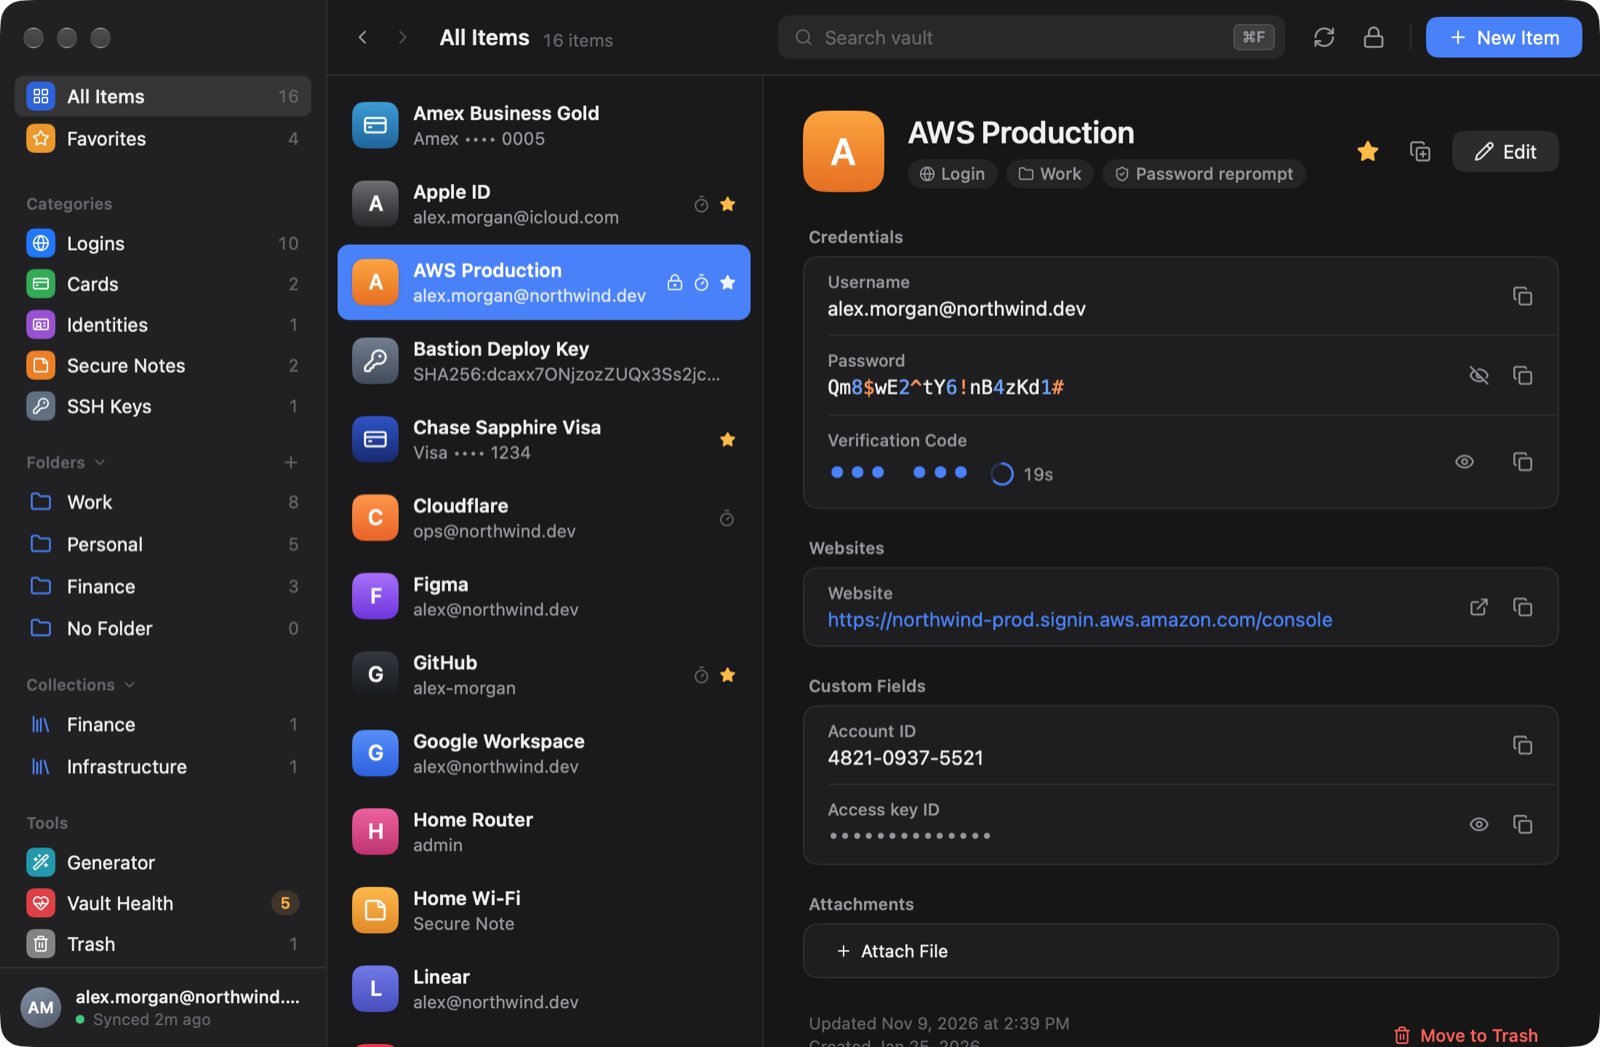
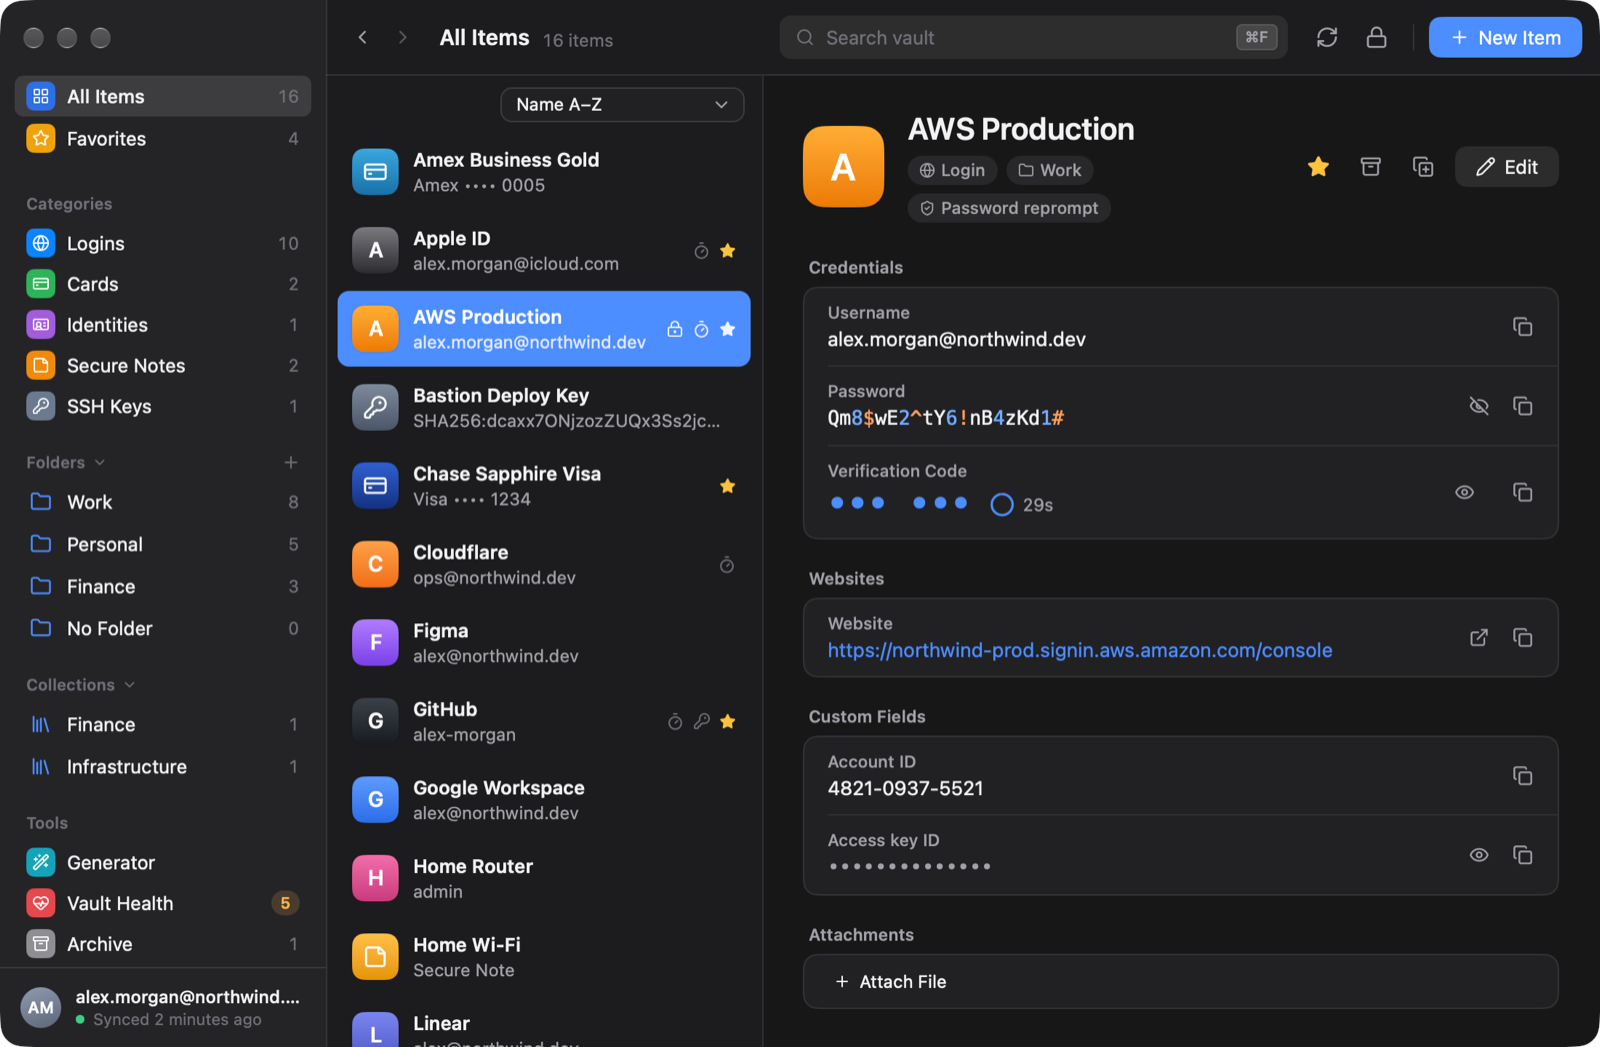
docs(readme): describe 0.6.1 features, sizes and screenshots
The appearance setting, bulk actions, sorting, the passkey indicator, wider search, YubiKey two-step login, new-device verification and the server choice at sign-in. The comparison table takes 0.6.1's download and app sizes and keeps the 0.2.5 process, memory and CPU measurements, saying so. The main screenshots show the current UI.

diff --git a/README.md b/README.md
@@ -25,7 +25,7 @@
   </picture>
 </p>
 
-<p align="center"><sub>Follows the system appearance: <a href="docs/screenshots/vault-light.png">light</a> and <a href="docs/screenshots/vault-dark.png">dark</a>.</sub></p>
+<p align="center"><sub>Light, Dark or System appearance, chosen in Settings: <a href="docs/screenshots/vault-light.png">light</a> and <a href="docs/screenshots/vault-dark.png">dark</a>.</sub></p>
 
 ## Install
 
@@ -110,7 +110,7 @@ gv lock
 | `install-linux.sh`, AppImage | Automatic: `~/.local/bin/gv` (`/usr/local/bin/gv` with `--system`), which keeps working without FUSE or a display and follows GoVault's updates | `install-linux.sh --uninstall` |
 | `.deb` or pacman package | Automatic: `/usr/bin/gv` | Removing the package removes it |
 | macOS app | **Settings → Command Line → Install** links `/usr/local/bin/gv` to the app (asks for an administrator password once) and updates with the app. It is offered for the signed GoVault in `/Applications` | **Settings → Command Line → Uninstall** |
-| Homebrew | Automatic with the cask, from the first release whose app carries `gv` | `brew uninstall --cask govault` |
+| Homebrew | Automatic with the cask | `brew uninstall --cask govault` |
 
 It supports `login` (master password with authenticator, email or YubiKey two-step login, or a personal API key), `unlock`, `lock`, `logout`, `status`, `sync`, `config server`, `list`, `get` (items, fields, TOTP codes, attachments, folders, collections, organizations, fingerprints), `create`, `edit`, `delete`, `restore` and `archive` (items, folders, attachments, item collections), `import` and `export` (Bitwarden JSON and CSV, encrypted with the account key or a password, and ZIP with attachments), `generate`, `encode` and `completion`. It does not yet move items to organizations, administer organizations, or use Send. `gv` keeps its own sign-in, separate from the app's, under `GoVault CLI` in your configuration directory (or `$BITWARDENCLI_APPDATA_DIR`), and keeps its credentials in the system keychain when there is one. See [docs/cli-design.md](docs/cli-design.md) for details and the few differences from `bw`.
 
@@ -118,17 +118,17 @@ It supports `login` (master password with authenticator, email or YubiKey two-st
 
 Bitwarden's mobile apps are native, but its desktop app is an Electron and Angular application: it ships a Chromium browser engine and Node.js, runs several processes, and is large to download and keep in memory. GoVault is a desktop client written in Go on native platform views (AppKit on macOS, GTK 4 on Linux, Win32 with Direct2D on Windows), with no CGO and a single process.
 
-| | GoVault 0.2.5 | Bitwarden Desktop 2026.10.4 |
+| | GoVault | Bitwarden Desktop 2026.10.4 |
 |---|---|---|
 | UI stack | Native views via [NSGo](https://nsgo.dev), Go, zero CGO | Electron (Chromium + Node.js) and Angular |
-| macOS download | 6.6 MB DMG (Apple silicon) | 350.7 MB DMG (universal) |
-| macOS app on disk | 21.5 MB | 1,033 MB (universal: x86_64 + arm64) |
-| Linux download (x86_64) | 7.0 MB `.deb`, 8.0 MB AppImage | 163.7 MB `.deb`, 215.8 MB AppImage |
-| Processes while idle | 1 | 4 (main, GPU, network, renderer) |
-| Memory, idle with the vault unlocked | 64 MB | 464 MB in total |
-| CPU, idle with the vault unlocked | under 0.1% | about 3% in total |
+| macOS download | 10.7 MB DMG (0.6.1, Apple silicon) | 350.7 MB DMG (universal) |
+| macOS app on disk | 37.1 MB (0.6.1, Apple silicon) | 1,033 MB (universal: x86_64 + arm64) |
+| Linux download (x86_64) | 14.0 MB `.deb`, 15.1 MB AppImage (0.6.1) | 163.7 MB `.deb`, 215.8 MB AppImage |
+| Processes while idle | 1 (0.2.5) | 4 (main, GPU, network, renderer) |
+| Memory, idle with the vault unlocked | 64 MB (0.2.5) | 464 MB in total |
+| CPU, idle with the vault unlocked | under 0.1% (0.2.5) | about 3% in total |
 
-<sub>Measured on an Apple silicon Mac running macOS 27.2. Memory is the physical footprint from `footprint`, summed over all of an app's processes. CPU is from seven `top` samples 5 seconds apart and from the CPU time each app used over the same 30 seconds. Both apps were signed in to the same account and vault (about 440 items), showing the main vault list with no item open, idle for at least 30 seconds (CPU time used: GoVault 0.02 s, Bitwarden 0.96 s). Download sizes are the release assets on GitHub.</sub>
+<sub>Measured on an Apple silicon Mac running macOS 27.2. Memory is the physical footprint from `footprint`, summed over all of an app's processes. CPU is from seven `top` samples 5 seconds apart and from the CPU time each app used over the same 30 seconds. Both apps were signed in to the same account and vault (about 440 items), showing the main vault list with no item open, idle for at least 30 seconds (CPU time used: GoVault 0.02 s, Bitwarden 0.96 s). The process, memory and CPU rows were measured on GoVault 0.2.5. Download sizes are the release assets on GitHub, and GoVault's sizes are those of 0.6.1, which includes `gv`.</sub>
 
 GoVault does not replace everything the official app does. It has no Bitwarden Send and no browser-extension integration, and accounts are created on your server's web vault. GoVault keeps the passkeys stored in your vault, shows them on each item, and can remove them, but it cannot create passkeys or sign in with them. Use the Bitwarden browser extension for that.
 
@@ -144,7 +144,8 @@ On a free bitwarden.com account, GoVault shows the verification codes of your lo
 
 **Sign-in and security**
 
-- Two-step login with an authenticator app or email, with "remember this device".
+- Sign in to bitwarden.com, bitwarden.eu or your self-hosted server, chosen on the sign-in screen.
+- Two-step login with an authenticator app, email or YubiKey (OTP), with "remember this device", and new-device verification by email.
 - Touch ID unlock on macOS, using a hardware-protected keychain item when the build is entitled to it.
 - Locks after inactivity and, on macOS, when the Mac sleeps or the screen locks.
 - Master password reprompt for sensitive items: revealing, copying, editing and showing verification codes ask again.
@@ -161,13 +162,15 @@ On a free bitwarden.com account, GoVault shows the verification codes of your lo
 - **Vault Health**: reused and weak passwords, expiring cards, unsecured websites and duplicate logins, checked entirely on your device.
 - **Encrypted backup**: export a password-protected, Bitwarden-compatible JSON file.
 - **Reviewed import**: import Bitwarden JSON exports and approve each change. Nothing in your vault is overwritten unless you choose to.
+- **Multi-select and bulk actions**: Move to Folder, Move to Trash, Archive and Unarchive, Restore, and Delete Permanently.
 - Clone items, empty Trash, folders, favorites, password and passphrase generator.
 - Website icons from your own server, with a switch to turn them off.
 
 **Native desktop**
 
-- Light and dark appearance, resizable three-pane layout.
-- Search from the toolbar (⌘F), scoped to the selected category or folder with one click to search everything.
+- Light, Dark or System appearance, resizable three-pane layout.
+- Search from the toolbar (⌘F), scoped to the selected category or folder with one click to search everything. It matches names, usernames, websites, notes, custom fields, card and identity details and SSH key fingerprints, never passwords or other secrets.
+- Sort the list by name or by modification date. A key icon marks the logins that have a passkey.
 - Back and Forward through views and items, including the mouse side buttons on macOS.
 - Optional menu bar icon, launch at login, keyboard shortcuts throughout.
 - Speaks English, 简体中文, 繁體中文, 日本語, 한국어, Deutsch, Français, Español, Português (Brasil) and Русский, following your system language or the one you pick in Settings. Native speakers: please report translation problems in [GitHub issues](https://github.com/txchen/govault/issues) (see [docs/i18n.md](docs/i18n.md)).
